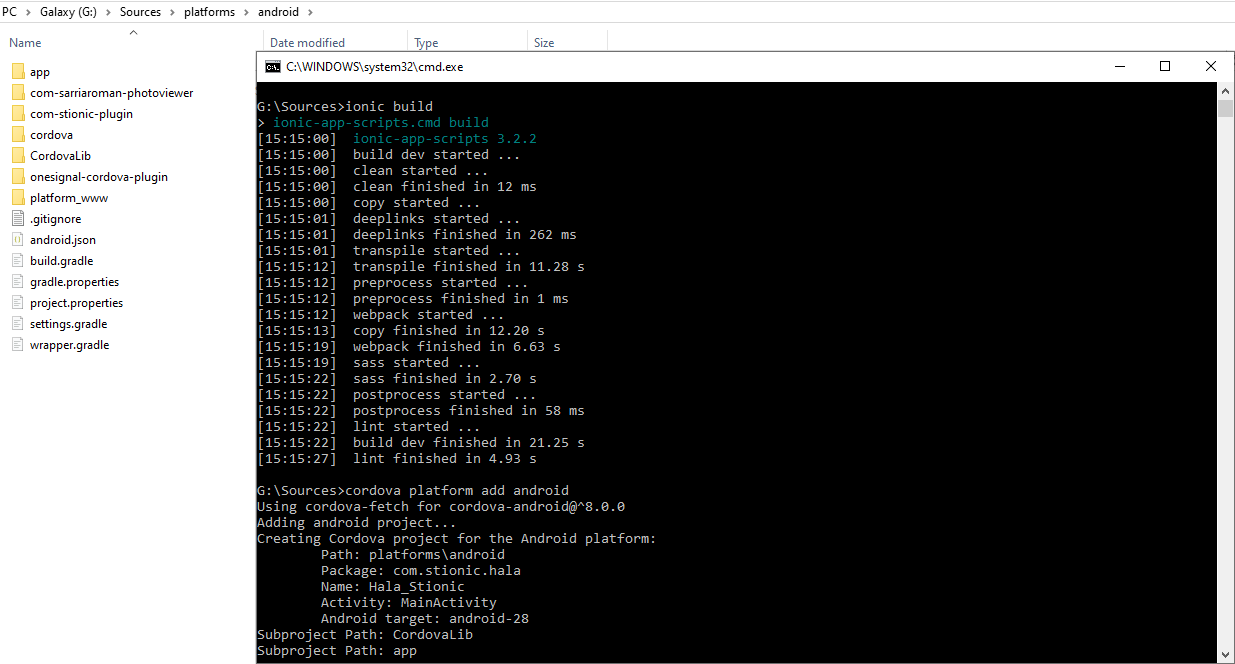
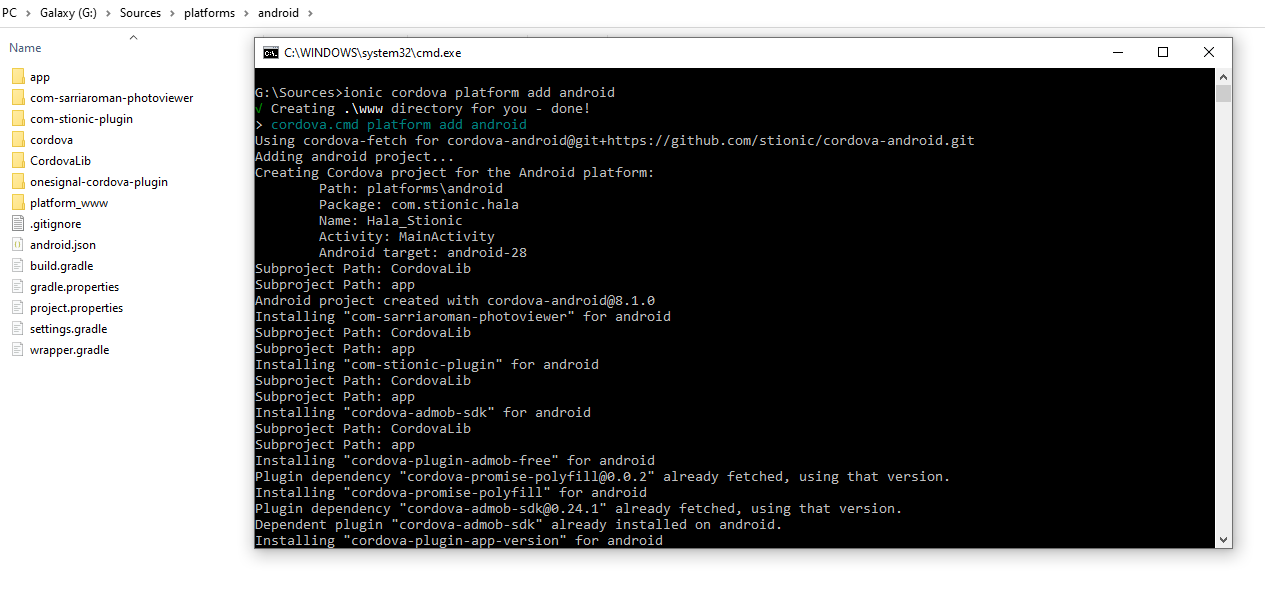
Update build android

Changed region(s): [[0.0, 0.0, 1.0, 1.0], [0.0, 0.0605, 0.1538, 0.605]]

diff --git a/docs/android-deploy.md b/docs/android-deploy.md
@@ -7,9 +7,10 @@ sidebar_label: Deploy
 Run everytime before you build want to build app in Android Studio when have changed code in `/src`
 
 ```
-ionic build --prod
-cordova prepare android
+ionic cordova prepare android --prod
 ```
+
+If building debug version then you should not use `--prod` for save time
 
 ## Opening a Project in Android Studio
 

diff --git a/docs/android-prepare.md b/docs/android-prepare.md
@@ -9,8 +9,7 @@ sidebar_label: Prepare
 For build Ionic/Cordova sources to Android project simple run follow command:
 
 ```
-ionic build
-cordova platform add android
+ionic cordova platform add android
 ```
 
 After run command, it will create `/platforms/android`
